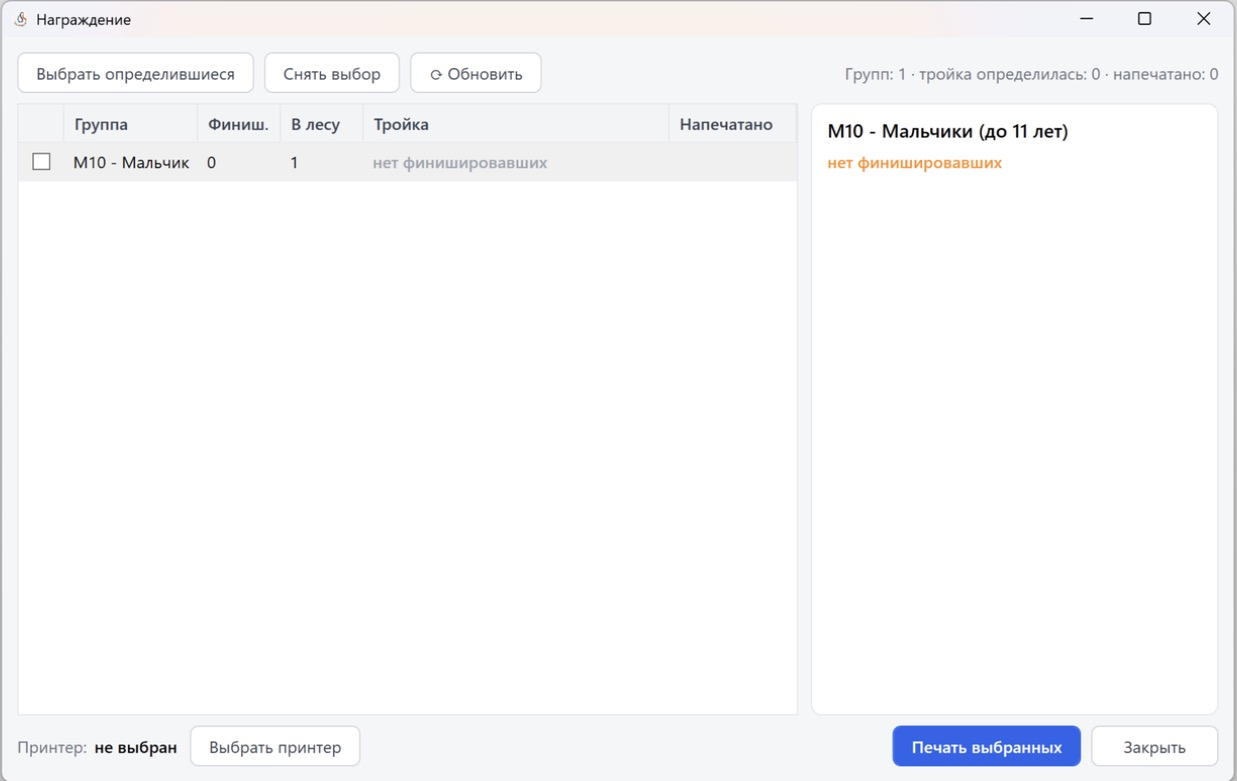
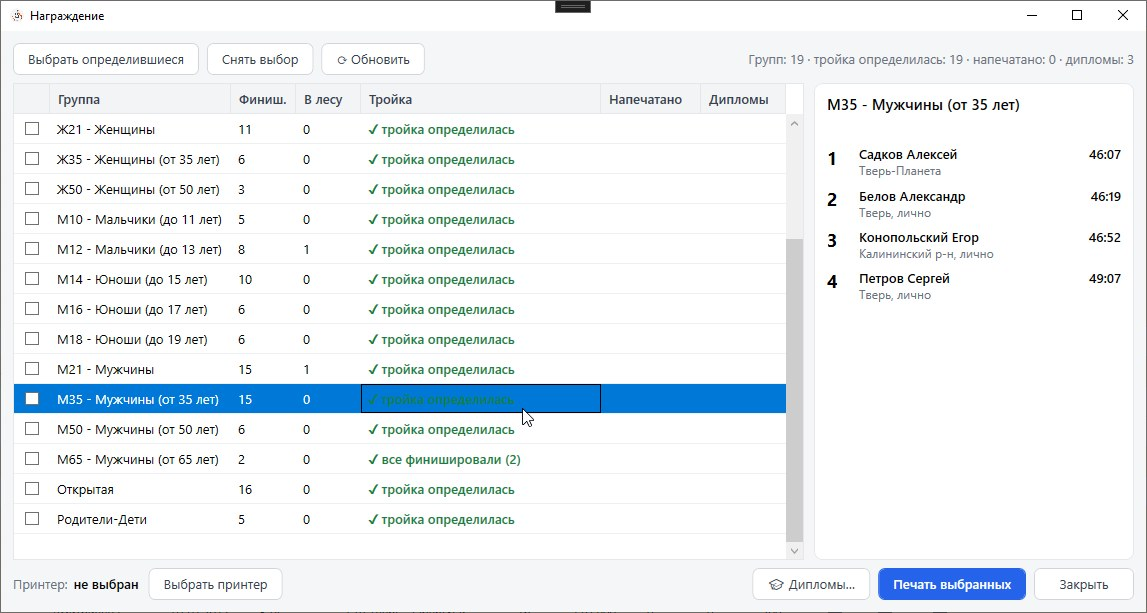
Документация: дипломы призёрам из окна «Награждение»
- Новая страница diplomas.rst: окно «Дипломы», колонка «в …» по группам,
  печать на готовых бланках, метки шаблона и пометки картинок
- Награждение: колонка «Дипломы», кнопка «🎓 Дипломы…», новый скриншот
- Оглавление и список возможностей

Claude-Session: https://claude.ai/code/session_01Aytood4oPPUtNrCCv69byV

diff --git a/docs/diplomas.rst b/docs/diplomas.rst
@@ -1,0 +1,111 @@
+Дипломы
+=======
+
+Программа готовит дипломы призёрам по шаблону Word (``.docx``): на каждого призёра
+выбранных групп одна страница, все дипломы собираются в один документ, который сразу
+открывается в Word. Печатать дальше можно прямо из Word на любой принтер.
+
+Как открыть
+-----------
+
+Кнопка ``🏆 Награждение`` на панели главного окна → отметьте галочками группы (или нажмите
+``Выбрать определившиеся``) → кнопка ``🎓 Дипломы…``.
+
+.. image:: ../screens/awards.jpg
+
+Если в какой-то из отмеченных групп тройка ещё не определилась, программа переспросит,
+делать ли дипломы всё равно. После формирования у группы в колонке **Дипломы** появляется
+время. Как и «Напечатано», эта отметка хранится до закрытия программы.
+
+Окно «Дипломы»
+--------------
+
+* **Шаблон** — какой шаблон используется сейчас:
+
+  * ``Загрузить…`` — выбрать свой ``.docx``. Он сохраняется в файле соревнования, поэтому
+    переезжает вместе с ним на другой компьютер. При загрузке программа показывает, какие
+    метки нашла в шаблоне;
+  * ``Сохранить копию…`` — сохранить текущий шаблон в файл, чтобы поправить его в Word и
+    загрузить обратно;
+  * ``Сбросить`` — вернуться к встроенному шаблону ``Templates/диплом.docx``.
+
+* **Места с 1 по N** — по умолчанию с 1-го по 3-е. При дележе места диплом получают все
+  разделившие его.
+* **Группа на дипломе** — короткое название (``Ж16``) или официальное
+  (``Женщины до 17 лет``). Если официального нет, берётся короткое.
+* **Фон шаблона** — снимите галочку для печати на готовых типографских бланках (см. ниже).
+* **Печать и подпись** — снимите, если диплом будет подписываться и заверяться вручную.
+* Таблица групп: Группа, Официальное название, **в …** и **Дипломов** (сколько дипломов
+  получится в группе при выбранных местах).
+
+Колонка «в …»
+~~~~~~~~~~~~~
+
+В шаблоне строка выглядит так: «в *<НазваниеСоревнований>* по спортивному ориентированию».
+Колонка **в …** — это то, что подставится вместо метки, уже в нужном падеже:
+«Первенстве г. Твери» или «Чемпионате г. Твери». Значение задаётся **для каждой группы**,
+потому что в одних соревнованиях часть групп может идти по Чемпионату, а часть по Первенству.
+
+* По умолчанию подставляется название дня из настроек соревнований, его нужно поправить один
+  раз: программа запоминает значение для группы в файле соревнования.
+* Чтобы заполнить сразу несколько групп, выделите строки (Ctrl / Shift + клик), впишите текст
+  в поле **«в …»** над таблицей (там же выпадающий список уже использованных вариантов) и
+  нажмите ``Применить к выделенным``.
+
+Сформировать
+~~~~~~~~~~~~
+
+``Сформировать и открыть в Word`` спрашивает, куда сохранить файл (по умолчанию
+``Дипломы ДД.ММ.ГГГГ.docx``), собирает дипломы и открывает документ в Word. Если файл с тем же
+именем уже открыт в Word, программа сообщит об ошибке: закройте его или сохраните под другим
+именем. Все настройки окна запоминаются для следующего раза.
+
+Печать на готовых бланках
+-------------------------
+
+Без галочки **Фон шаблона** из дипломов убираются картинки, помеченные как фон, и всё
+содержимое колонтитулов (во встроенном шаблоне это узор с логотипом сверху и горы с адресом
+сайта снизу). Текст при этом остаётся на тех же местах, что и в шаблоне, поэтому его можно
+печатать прямо на бланк. Если надписи не попадают в поля бланка, подвиньте их в шаблоне
+(``Сохранить копию…`` → правка в Word → ``Загрузить…``).
+
+Свой шаблон
+-----------
+
+Шаблон — обычный документ Word. В нужные места впишите метки в угловых скобках, например
+``<Фамилия> <Имя>``. Метки можно оформлять как угодно (шрифт, размер, цвет), в том числе
+внутри надписей (текстовых полей). Неизвестные программе метки остаются как есть.
+
+.. list-table::
+   :header-rows: 1
+   :widths: 35 65
+
+   * - Метка
+     - Что подставляется
+   * - ``<Фамилия>``, ``<Имя>``, ``<ФИО>``
+     - фамилия, имя, «Фамилия Имя»
+   * - ``<Место>``, ``<МестоРим>``
+     - место цифрами (3) или римскими (III)
+   * - ``<Группа>``
+     - короткое или официальное название группы (переключатель в окне)
+   * - ``<Команда>``, ``<Результат>``
+     - коллектив и результат (``25:14`` или ``1:02:30``)
+   * - ``<НазваниеСоревнований>``
+     - значение колонки «в …» для группы
+   * - ``<Дисциплина>``, ``<МестоПроведения>``, ``<Организаторы>``
+     - из настроек дня соревнований
+   * - ``<Дата>``, ``<ДатаЦифрами>``
+     - «08 ноября 2026» или «08.11.2026»
+
+Картинки, которые нужно убирать по галочкам, помечаются через **Замещающий текст**
+(правый клик по картинке в Word → «Изменить замещающий текст»):
+
+* ``фон`` — убирается без галочки **Фон шаблона**;
+* ``печать``, ``подпись`` — убираются без галочки **Печать и подпись**.
+
+Колонтитулы целиком считаются фоном. Картинки «за текстом» или «перед текстом» удаляются,
+а картинки с обтеканием становятся прозрачными, чтобы текст не сдвинулся.
+
+Каждый диплом в документе — отдельный раздел с копией шаблона, поэтому шаблон должен
+умещаться на одну страницу. Если длинная фамилия или название переносится на новую строку и
+диплом расползается на две страницы, уменьшите в шаблоне шрифт или интервалы.

diff --git a/docs/index.rst b/docs/index.rst
@@ -5,7 +5,7 @@ Belov Sport Program
 ориентированию: от приёма заявок и жеребьёвки до считывания чипов, печати сплитов,
 онлайн-результатов на orgeo.ru и официальных протоколов.
 
-Документация актуальна на 11 ноября 2026 г. (сборка от 5 ноября 2026 г.).
+Документация актуальна на 13 ноября 2026 г. (сборка от 5 ноября 2026 г.).
 
 .. note::
    | По вопросам: VK_ TG_
@@ -24,7 +24,8 @@ Belov Sport Program
 * мандатная комиссия: проверка документов, отметка оплаты и аренды чипа, печать чека, справки;
 * регистрация на старте с оплатой наличными/картой, печать номеров, запись номера в чип SFR;
 * считывание чипов SFR и UHF RFID-меток (Chafon CF810) с нескольких компьютеров;
-* печать сплитов на чековый (ширина 72 мм) или обычный принтер, печать для награждения;
+* печать сплитов на чековый (ширина 72 мм) или обычный принтер, печать для награждения, дипломы
+  призёрам по шаблону Word;
 * стартовые протоколы, протоколы результатов, командные результаты, суммы дней;
 * официальные протоколы по ЕВСК с расчётом выполненных разрядов;
 * отправка стартовых протоколов и результатов на orgeo.ru (в том числе онлайн).
@@ -45,6 +46,7 @@ Belov Sport Program
    start
    results
    documents
+   diplomas
    bib_designer
    official
    relay

diff --git a/docs/documents.rst b/docs/documents.rst
@@ -101,13 +101,14 @@
 .. image:: ../screens/awards.jpg
 
 * Таблица групп: Группа, Финиш. (финишировали), В лесу, Тройка (определилась ли тройка),
-  Напечатано.
+  Напечатано, Дипломы.
 * ``Выбрать определившиеся`` — выбрать группы, где тройка определилась и награждение ещё не
   печаталось. ``Снять выбор``, ``⟳ Обновить``, ``Закрыть``.
 * Справа показывается тройка выбранной группы.
 * Нажмите ``Выбрать принтер``, затем ``Печать выбранных``. Все выбранные группы печатаются
   одним чеком, на нём места с 1-го по 4-е.
-* Отметка «Напечатано» хранится только до закрытия программы.
+* Отметки «Напечатано» и «Дипломы» хранятся только до закрытия программы.
+* ``🎓 Дипломы…`` — дипломы призёрам отмеченных групп в Word, см. :doc:`diplomas`.
 
 Если тройка ещё не определилась (кто-то в лесу может обогнать), программа предложит напечатать
 предварительно — с пометкой «ПРЕДВАРИТЕЛЬНО: могут обогнать N» на чеке.
